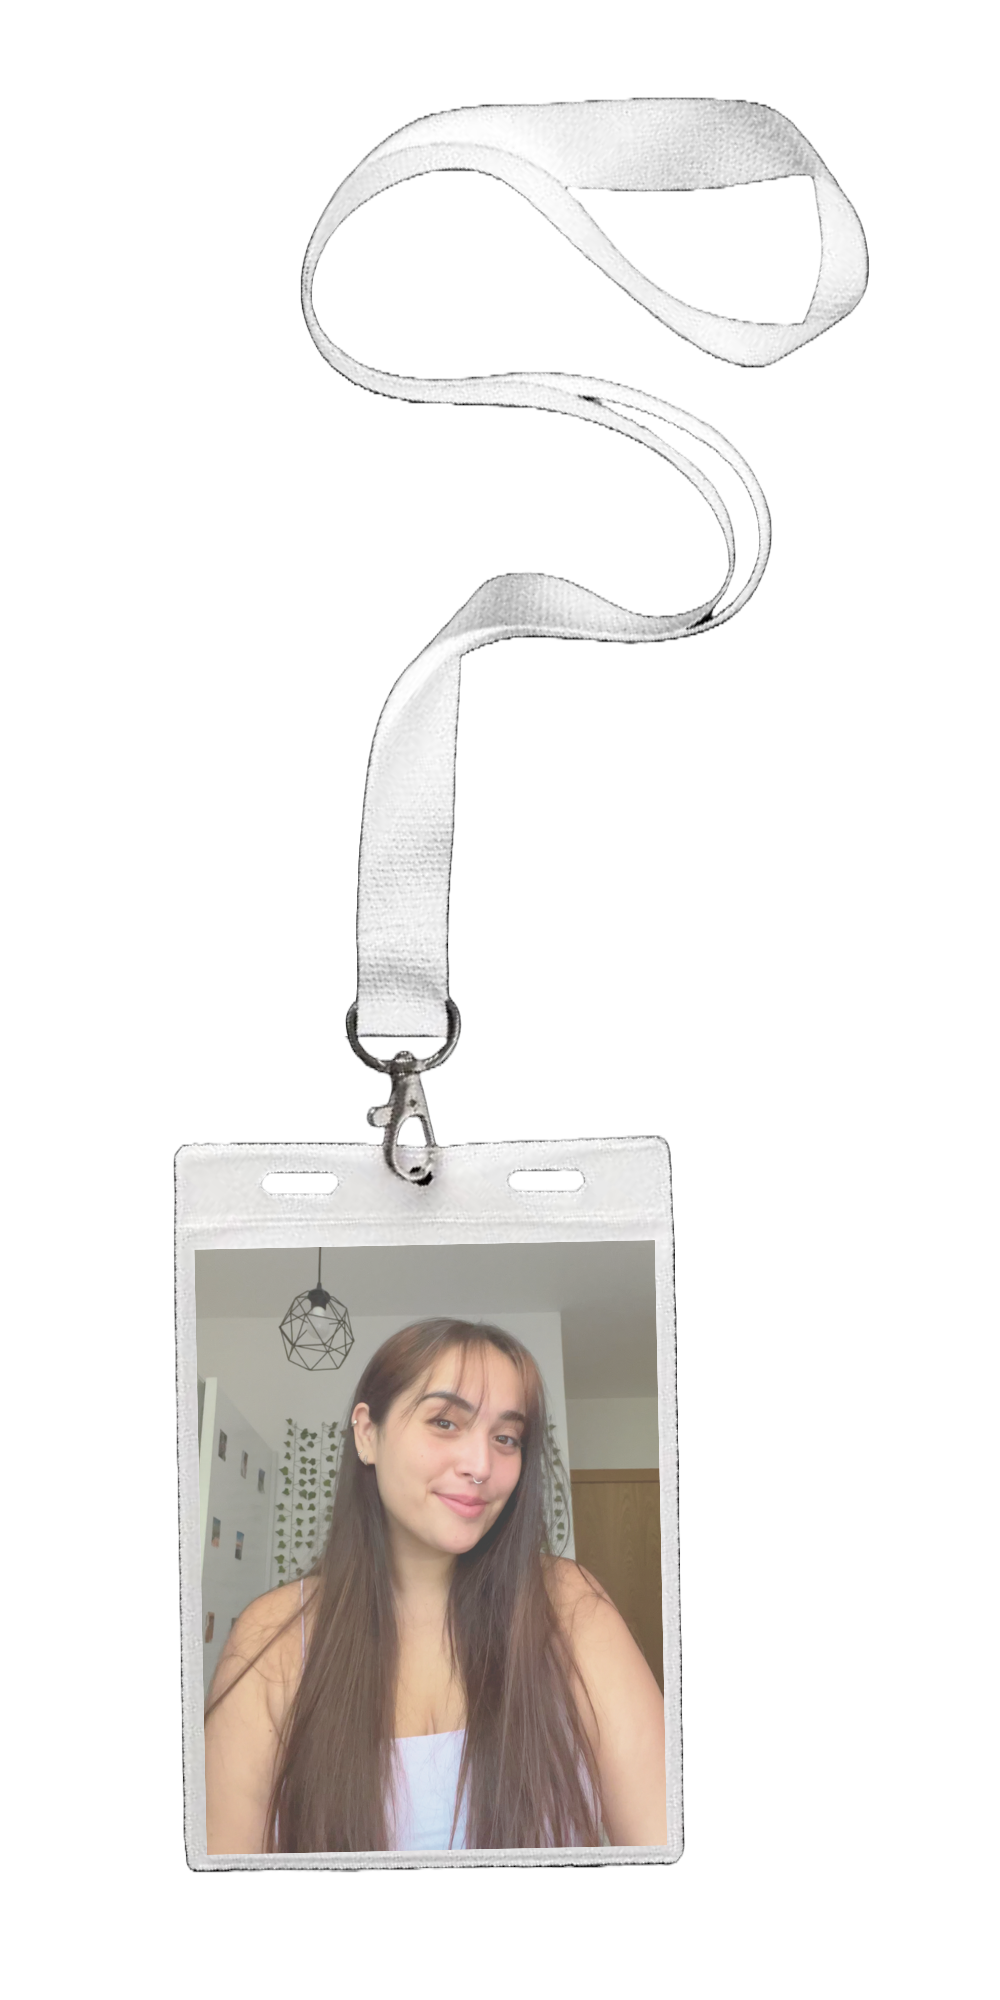
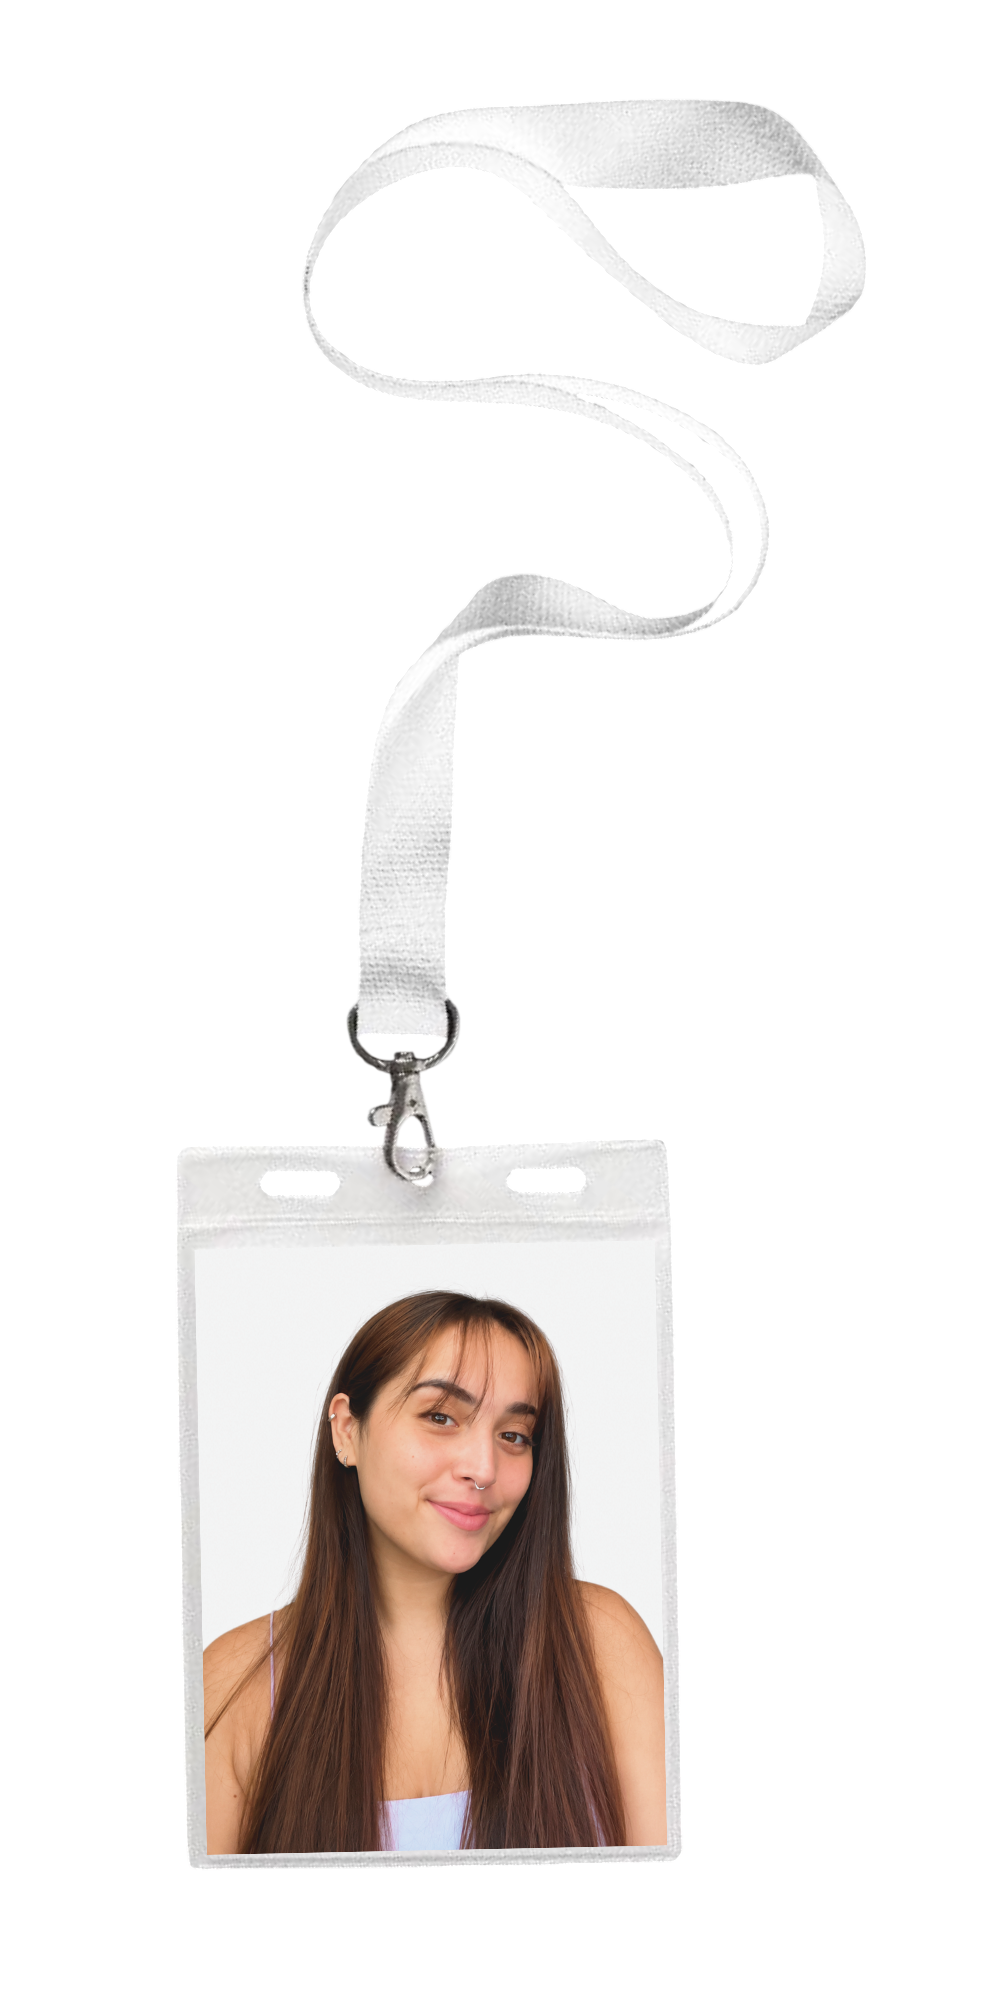
changes

diff --git a/src/App.jsx b/src/App.jsx
@@ -14,34 +14,34 @@ export const translations = {
     kills: "abilidades en programación",
     c: "C",
     ontact: "ontáctame",
-    emailPlaceholder: "¿cuál es tu correo?",
-    titlePlaceholder: "ponle título al correo",
-    messagePlaceholder: "¿de qué quieres hablar?",
-    sendButton: "háblame",
+    emailPlaceholder: "¿Cuál es tu correo?",
+    titlePlaceholder: "Ponle título al correo",
+    messagePlaceholder: "¿De qué quieres hablar?",
+    sendButton: "Háblame",
     heroStrings: [
       "desarrolladora full-stack",
       "desarrolladora front-end",
-      "diseñadora ux/ui en proceso",
+      "diseñadora ux/ui",
       "desarrolladora back-end"
     ],
     soy: "y soy",
-    experienceTitle: "proyecto full-stack",
-    studiesTitle: "estudios",
-    caseStudyTitle: "proyecto ux/ui",
-    adaptability: "adaptabilidad",
-    calma: "calma",
-    brainstorming: "lluvia de ideas",
-    conflictManagement: "gestión de conflictos",
-    creativity: "creatividad",
-    humor: "humor",
-    introspection: "introspección",
-    multitasking: "multitarea",
-    organization: "organización",
-    proactivity: "proactividad",
-    resourcefulness: "ingeniosidad",
-    responsibility: "responsabilidad",
-    selfMotivation: "motivación y determinación",
-    teamwork: "trabajo en equipo",
+    experienceTitle: "Proyecto full-stack",
+    studiesTitle: "Estudios",
+    caseStudyTitle: "Proyecto ux/ui",
+    adaptability: "Adaptabilidad",
+    calma: "Calma",
+    brainstorming: "Lluvia de ideas",
+    conflictManagement: "Gestión de conflictos",
+    creativity: "Creatividad",
+    humor: "Humor",
+    introspection: "Introspección",
+    multitasking: "Multitarea",
+    organization: "Organización",
+    proactivity: "Proactividad",
+    resourcefulness: "Ingeniosidad",
+    responsibility: "Responsabilidad",
+    selfMotivation: "Motivación y determinación",
+    teamwork: "Trabajo en equipo",
     studiesTitle2: "Desarrollo Full-stack",
     studiesDuration: "6 meses, 2025",
     studiesTitle3: "Diseño UX/UI",
@@ -56,34 +56,34 @@ export const translations = {
     kills: "rogramming skills",
     c: "C",
     ontact: "ontact me",
-    emailPlaceholder: "what's your e-mail?",
-    titlePlaceholder: "give the e-mail a title",
-    messagePlaceholder: "what do you want to talk about?",
-    sendButton: "talk to me",
+    emailPlaceholder: "What's your e-mail?",
+    titlePlaceholder: "Give the e-mail a title",
+    messagePlaceholder: "What do you want to talk about?",
+    sendButton: "Talk to me",
     heroStrings: [
       "full-stack developer",
       "front-end developer",
-      "ux/ui designer in progress",
+      "ux/ui designer",
       "back-end developer"
     ],
     soy: "and i'm a",
-    experienceTitle: "full-stack project",
-    studiesTitle: "studies",
-    caseStudyTitle: "ux/ui project",
-    adaptability: "adaptability",
-    calma: "calmness",
-    brainstorming: "brainstorming",
-    conflictManagement: "conflict management",
-    creativity: "creativity",
-    humor: "humor",
-    introspection: "introspection",
-    multitasking: "multitasking",
-    organization: "organization",
-    proactivity: "proactivity",
-    resourcefulness: "resourcefulness",
-    responsibility: "responsibility",
-    selfMotivation: "motivation and determination",
-    teamwork: "team work",
+    experienceTitle: "Full-stack project",
+    studiesTitle: "Studies",
+    caseStudyTitle: "Ux/ui project",
+    adaptability: "Adaptability",
+    calma: "Calmness",
+    brainstorming: "Brainstorming",
+    conflictManagement: "Conflict management",
+    creativity: "Creativity",
+    humor: "Humor",
+    introspection: "Introspection",
+    multitasking: "Multitasking",
+    organization: "Organization",
+    proactivity: "Proactivity",
+    resourcefulness: "Resourcefulness",
+    responsibility: "Responsibility",
+    selfMotivation: "Motivation and determination",
+    teamwork: "Team work",
     experienceDescription: "Swipe Stories is the perfect website to use for when you're bored! For people who enjoy watching movies and tv shows and also reading books, including a swipeable form that makes life easy for you and gives you an answer on what to do based off your yes and no responses.",
     studiesTitle2: "Full-stack Developer",
     studiesDuration: "6 months, 2025",
@@ -98,34 +98,34 @@ export const translations = {
     kills: "abilitats en programació",
     c: "C",
     ontact: "ontacta'm",
-    emailPlaceholder: "quin és el teu correu?",
-    titlePlaceholder: "posa-li títol al correu",
-    messagePlaceholder: "de què vols parlar?",
-    sendButton: "parla'm",
+    emailPlaceholder: "Quin és el teu correu?",
+    titlePlaceholder: "Posa-li títol al correu",
+    messagePlaceholder: "De què vols parlar?",
+    sendButton: "Parla'm",
     heroStrings: [
       "desenvolupadora full-stack",
       "desenvolupadora front-end",
-      "dissenyadora ux/ui en procés",
+      "dissenyadora ux/ui",
       "desenvolupadora back-end"
     ],
     soy: "i sóc",
-    experienceTitle: "projecte full-stack",
-    studiesTitle: "estudis",
-    caseStudyTitle: "projecte ux/ui",
-    adaptability: "adaptabilitat",
-    calma: "serenitat",
-    brainstorming: "pluja d'idees",
-    conflictManagement: "gestió de conflictes",
-    creativity: "creativitat",
-    humor: "humor",
-    introspection: "introspecció",
-    multitasking: "multitasca",
-    organization: "organització",
-    proactivity: "proactivitat",
-    resourcefulness: "enginy",
-    responsibility: "responsabilitat",
-    selfMotivation: "motivació i determinació",
-    teamwork: "treball en equip",
+    experienceTitle: "Projecte full-stack",
+    studiesTitle: "Estudis",
+    caseStudyTitle: "Projecte ux/ui",
+    adaptability: "Adaptabilitat",
+    calma: "Serenitat",
+    brainstorming: "Pluja d'idees",
+    conflictManagement: "Gestió de conflictes",
+    creativity: "Creativitat",
+    humor: "Humor",
+    introspection: "Introspecció",
+    multitasking: "Multitasca",
+    organization: "Organització",
+    proactivity: "Proactivitat",
+    resourcefulness: "Enginy",
+    responsibility: "Responsabilitat",
+    selfMotivation: "Motivació i determinació",
+    teamwork: "Treball en equip",
     studiesTitle2: "Desenv. Full-stack",
     studiesDuration: "6 mesos, 2025",
     studiesTitle3: "Disseny UX/UI",

diff --git a/src/App.css b/src/App.css
@@ -3,12 +3,12 @@
   --transparent: #ffffff00;
   --white: #ffffff;
   --black: #000000;
-  --lightBrown: #a47864;
-  --darkBrown: #563e33;
-  --lightPink: #dcc2d4;
-  --darkPink: #9d6d8e;
-  --lightBlue: #889fc2;
-  --darkBlue: #13135a;
+  --lightBrown: #6f816c;
+  --darkBrown: #b3c1b0;
+  --lightPink: #505052;
+  --darkPink: #cbd5c9;
+  --lightBlue: #505052;
+  --darkBlue: #272758;
 }
 
 
@@ -354,16 +354,16 @@ body {
     width: 30%;
     align-content: center;
     font-family: "HeroBold", sans-serif;
-    border: 5px solid var(--white);
+    border: 3px solid var(--white);
     font-size: 1rem;
     transition: transform 0.3s ease, box-shadow 0.3s ease, filter 0.3s ease;
   }
 
   & .studies:hover {
-    transform: scale(1.1);
+    transform: scale(1.05);
     background-color: var(--white);
     color: var(--lightBrown);
-    box-shadow: 0px 8px 20px var(--white);
+    box-shadow: 0px 4px 10px var(--white);
   }
 
   & .studiesTitle {
@@ -384,16 +384,16 @@ body {
     padding-top: 2%;
     align-content: center;
     font-family: "HeroBold", sans-serif;
-    border: 5px solid var(--white);
+    border: 3px solid var(--white);
     font-size: 1rem;
     transition: transform 0.3s ease, box-shadow 0.3s ease, filter 0.3s ease;
   }
 
   & .experience:hover {
-    transform: scale(1.1);
+    transform: scale(1.05);
     background-color: var(--white);
     color: var(--lightBrown);
-    box-shadow: 0px 8px 20px var(--white);
+    box-shadow: 0px 4px 10px var(--white);
   }
 
   & .experience:hover #experience a {
@@ -437,16 +437,16 @@ body {
     width: 30%;
     align-content: center;
     font-family: "HeroBold", sans-serif;
-    border: 5px solid var(--white);
+    border: 3px solid var(--white);
     font-size: 1rem;
     transition: transform 0.3s ease, box-shadow 0.3s ease, filter 0.3s ease;
   }
 
   & .caseStudy:hover {
-    transform: scale(1.1);
+    transform: scale(1.05);
     background-color: var(--white);
     color: var(--lightBrown);
-    box-shadow: 0px 8px 20px var(--white);
+    box-shadow: 0px 4px 10px var(--white);
   }
 
   & .caseStudy:hover #caseStudy a {

diff --git a/index.html b/index.html
@@ -4,9 +4,9 @@
 <head>
   <meta charset="UTF-8" />
   <link rel="icon" type="icon"
-    href="https://upload.wikimedia.org/wikipedia/commons/thumb/c/c9/Black_star.png/1069px-Black_star.png" />
+    href="https://upload.wikimedia.org/wikipedia/commons/c/c9/Black_star.png" />
   <meta name="viewport" content="width=device-width, initial-scale=1.0" />
-  <title>El portfolio de Laura Montes</title>
+  <title>Laura's Portfolio</title>
   <link href="https://cdn.jsdelivr.net/npm/bootstrap@5.3.2/dist/css/bootstrap.min.css" rel="stylesheet"
     integrity="sha384-T3c6CoIi6uLrA9TneNEoa7RxnatzjcDSCmG1MXxSR1GAsXEV/Dwwykc2MPK8M2HN" crossorigin="anonymous" />
 </head>
